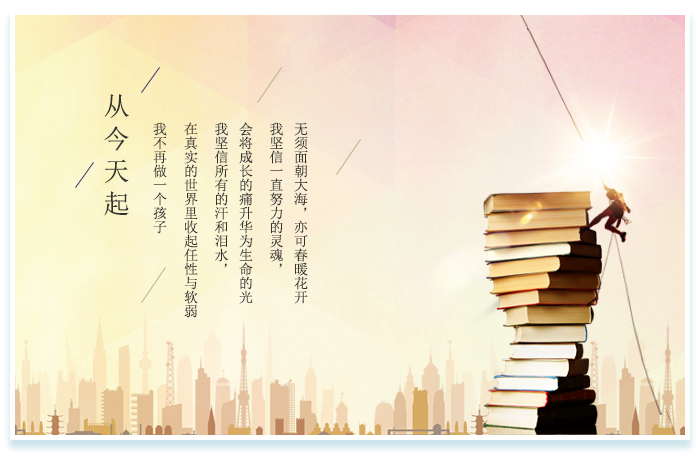
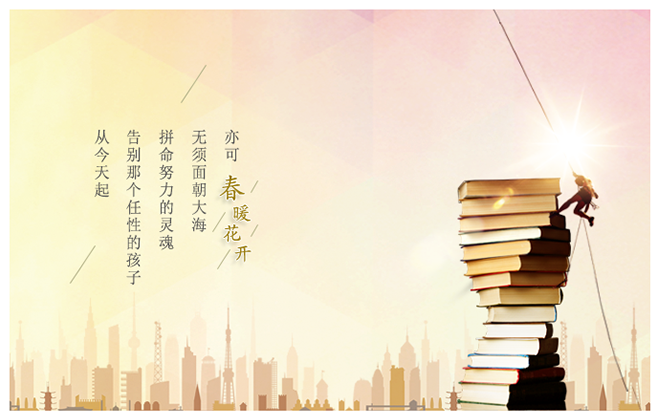
登录top

diff --git a/addons/recruit/app/view/pc/resume/resume_reg4.html b/addons/recruit/app/view/pc/resume/resume_reg4.html
@@ -10,8 +10,8 @@
     <title>简历填写</title>
     <style>
         .cwfmonths span{
-            width: 17.5px;
-            text-align: center;
+            width: 25px;
+            height: 15px;
         }
     </style>
 </head>
@@ -179,23 +179,23 @@
             if($.trim(place)==""){
                 var input_box=$("#place").closest(".general-input");
                 input_box.css("border-color","#e23d46");
-                hint("error","请选择籍贯");
-//                $(".cwf_tip").eq(0).html(tipmsg("error","请选择籍贯"));
+//                hint("error","请选择籍贯");
+                $(".cwf_tip").eq(0).html(tipmsg("error","请选择籍贯"));
                 return false;
             }
             if($.trim(birthday)==""){
                 var input_box=$("#birthday").closest(".general-input");
                 input_box.css("border-color","#e23d46");
-                hint("error","请选择生日");
-//                $(".cwf_tip").eq(0).html(tipmsg("error","请选择生日"));
+//                hint("error","请选择生日");
+                $(".cwf_tip").eq(0).html(tipmsg("error","请选择生日"));
                 return false;
             }
 
             if($.trim(introduce)==""){
                 var input_box=$("#introduce").closest(".cwfreg4content");
                 input_box.css("border-color","#e23d46");
-                hint("error","请介绍下自己");
-//                $(".cwf_tip1").eq(0).html(tipmsg("error","请介绍下自己"));
+//                hint("error","请介绍下自己");
+                $(".cwf_tip1").eq(0).html(tipmsg("error","请介绍下自己"));
                 return false;
             }
 

diff --git a/addons/recruit/app/resource/js/formdata.js b/addons/recruit/app/resource/js/formdata.js
@@ -18,7 +18,7 @@ jQuery.extend({
                 var warn=inputi.attr("data-warn");//警告提示信息
                 var rg=inputi.attr("data-rg");//正则
 
-                console.log(inputi.offset().top-$("html").scrollTop());
+                console.log(inputi.parent().offset().top);
 
 
 
@@ -27,7 +27,7 @@ jQuery.extend({
                     if(inputval==""){
                         var no_data="<div class='formtip'><img class='tip_ico' src='/addons/recruit/app/resource/images/ico_error.png'> <span class='tip_msg'>"+error+"</span></div>"
                         inputi.closest(".general-input").css("border-color","#e23d46").append(no_data);
-                        $("html").animate({scrollTop:(inputi.offset().top-$(document).scrollTop())+"px"},200);
+                        $("html").animate({scrollTop:(inputi.parent().offset().top-200)},200);
                         return false;
                     }else if(rg){
                         verification=new RegExp(rg);
@@ -42,7 +42,7 @@ jQuery.extend({
                                 var no_data=""
                             }
                             inputi.closest(".general-input").css("border-color","#e23d46").append(no_data);
-                            $("html").animate({scrollTop:(inputi.offset().top-$(document).scrollTop())+"px"},200);
+                            $("html").animate({scrollTop:(inputi.parent().offset().top-200)},200);
                             return false;
                         }
                     }else{

diff --git a/addons/recruit/app/resource/js/company_nomsg.js b/addons/recruit/app/resource/js/company_nomsg.js
@@ -95,8 +95,11 @@ $("body").on("mousedown",".areaoptions .select-option",function(){
 //    }
 //
 //});
-$(".company_welfare span").click(function(){
+$(".company_welfare").on("click","span",function(){
     var _this=$(this);
+    if($(this).hasClass("welfare_choice")){
+        return;
+    };
     var company_welfares=$("#company_welfare").val().split(",");
     if(company_welfares.length>=5){
         hint("error","最多可以添加5个标签");
@@ -122,10 +125,7 @@ $("body").on("click",".company_welfare .welfare_choice .icon",function(){
     addwelfare();
 });
 
-//阻止冒泡
-$("body").on("click",".company_welfare   .icon",function(event){
-    event.stopPropagation();
-});
+
 
 $("body").on("click",".company_welfare .new_welfare .icon",function(){
 
@@ -134,6 +134,12 @@ $("body").on("click",".company_welfare .new_welfare .icon",function(){
     _this.remove();
     addwelfare();
 });
+
+//阻止冒泡
+$("body").on("click",".company_welfare   .icon",function(event){
+    event.stopPropagation();
+});
+
 
 //添加福利
 $(".btn_sou").on("click",function(){

diff --git a/addons/recruit/app/view/pc/resume/first_index.html b/addons/recruit/app/view/pc/resume/first_index.html
@@ -1,5 +1,5 @@
 <!DOCTYPE html>
-<html lang="en">
+<html lang="en" style="height: 100%">
 <head>
     <meta charset="UTF-8">
     <meta http-equiv="X-UA-Compatible" content="IE=edge">
@@ -10,9 +10,8 @@
     <link href="{WL_URL_ARES}css/reguser1.css" rel="stylesheet">
     <title>秒猎网</title>
 </head>
-<body class="rout">
-{php include wl_template('common/header');}
-<div class="resume_content routzj">
+<body class="rout" style="background-color: #09c;height: 100%">
+<div class="resume_content routzj" style="height: auto">
     <div class="rout_con">
         <div class="icos">
             <a href="{php echo $url}"><img src="{WL_URL_ARES}images/button-ico.png" class="btn_start"/></a>

diff --git a/addons/recruit/app/resource/css/reguser1.css b/addons/recruit/app/resource/css/reguser1.css
@@ -569,17 +569,17 @@ position: absolute;
     float: left;
 }
 .rout .routzj .rout_con{
-    width: 700px;
-    height: 450px;
+    width: 660px;
+    height: 420px;
     margin: 0 auto;
-    margin-top: 150px;
+    margin-top: 140px;
     background: url("../images/qinghuai.png") no-repeat;
 }
 .rout .routzj .icos{
     float: left;
     width: 240px;
     height: 36px;
-    margin-top: 375px;
+    margin-top: 355px;
     margin-left: 234px;
 }
 .rout .routzj .btn_start{

diff --git a/addons/recruit/app/resource/js/resume_reg4.js b/addons/recruit/app/resource/js/resume_reg4.js
@@ -79,7 +79,7 @@ $(document).ready(function(){
         var _this=$(this);
         var value=$("#place").val();
         if(_this.html()!="不限"){
-            _this.closest(".options").prev().find("input").val(value+" "+_this.html());
+            _this.closest(".options").prev().find("input").val(_this.html());
         }
         else{
             _this.closest(".options").prev().find("input").val(value);

diff --git a/addons/recruit/app/view/pc/resume/resume_reg3.html b/addons/recruit/app/view/pc/resume/resume_reg3.html
@@ -14,6 +14,10 @@
     .chec_tip, .chec_tip1{
         margin-bottom: 20px;
     }
+    .cwfmonths span{
+        width: 25px;
+        height: 15px;
+    }
 </style>
 <body>
 {php include wl_template('common/header');}
